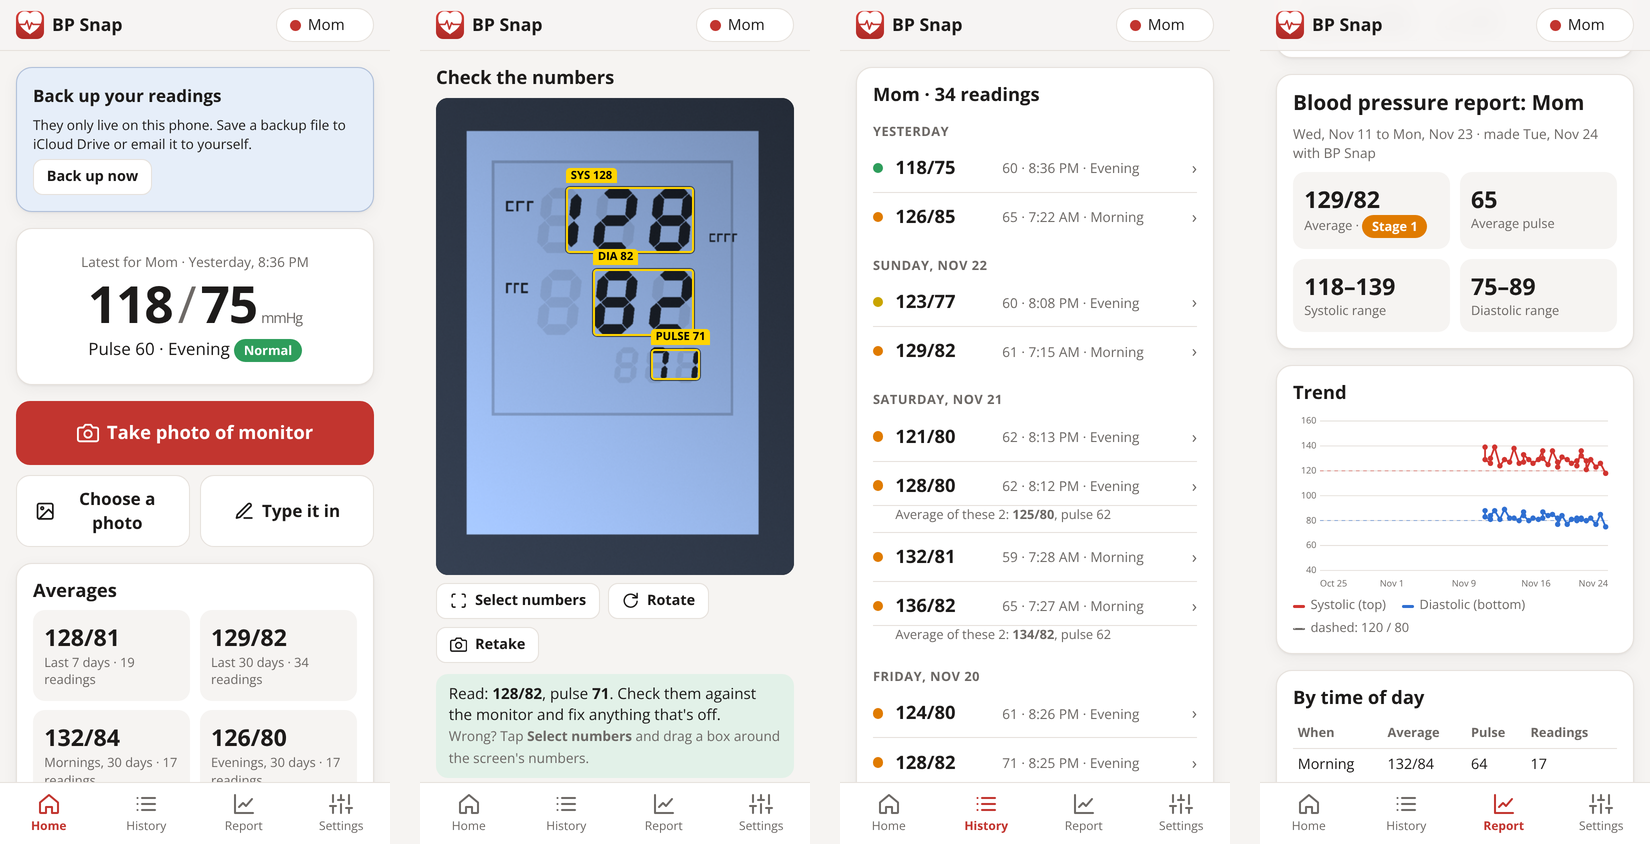
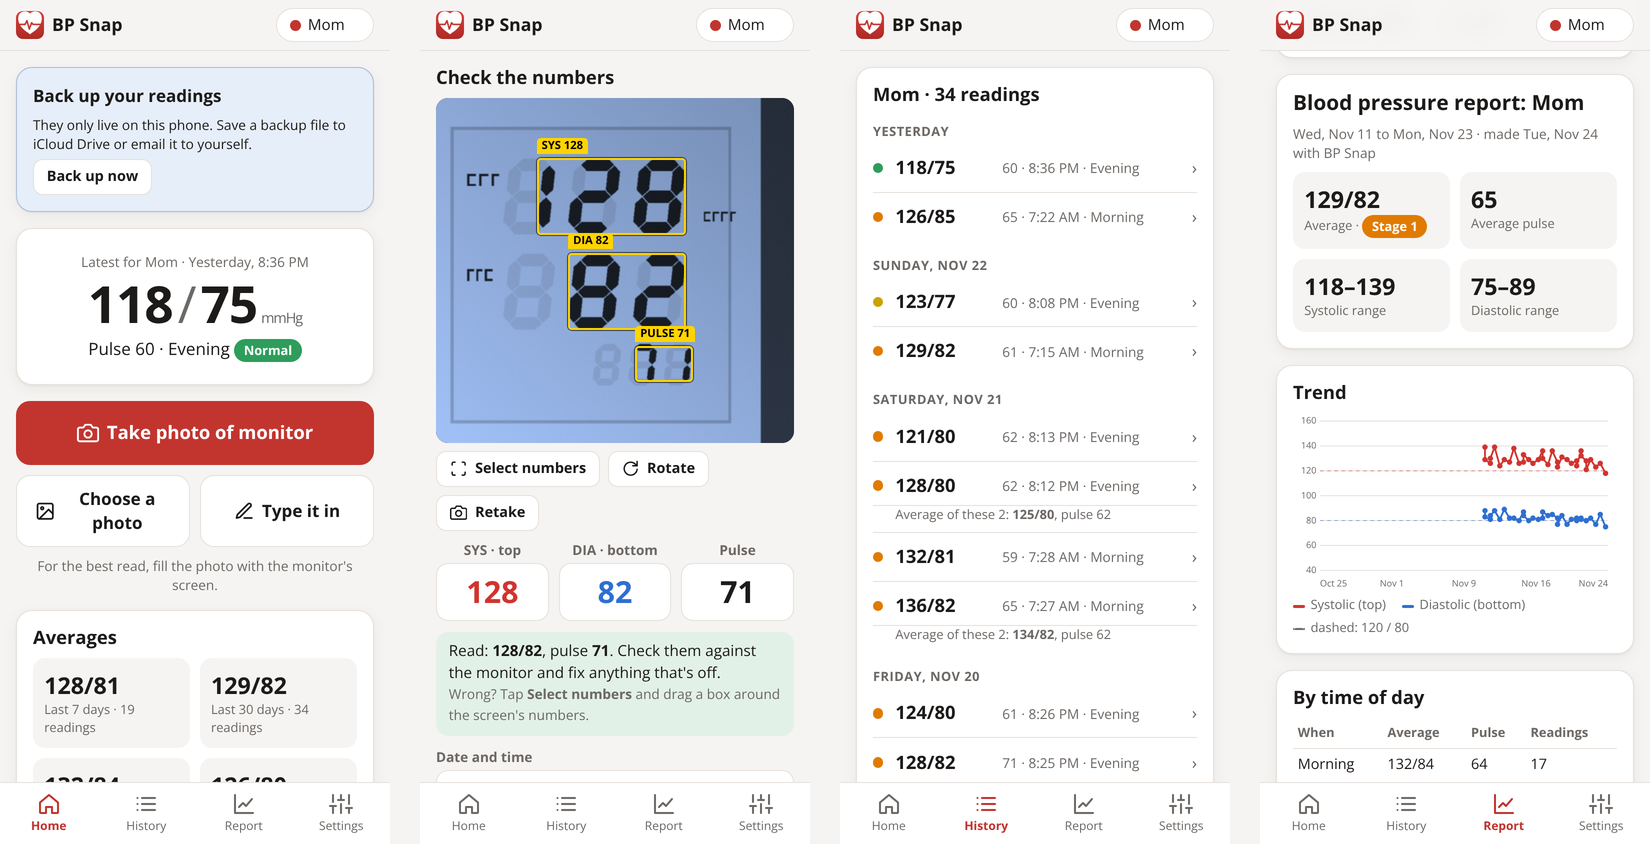
review: zoom the photo on the numbers read, numbers right under the photo, framing tip

diff --git a/js/app.js b/js/app.js
@@ -274,6 +274,7 @@ async function home() {
     <button class="btn" data-act="lib">${icon('image')} Choose a photo</button>
     <a class="btn" href="#/manual">${icon('pencil')} Type it in</a>
   </div>
+  <p class="muted small center" style="margin:-.4rem 0 1rem">For the best read, fill the photo with the monitor's screen.</p>
   ${rs.length ? `<section class="card"><h2>Averages</h2>
     <div class="stats">${statBox('Last 7 days', s7)}${statBox('Last 30 days', s30)}${statBox('Mornings, 30 days', tod.morning)}${statBox('Evenings, 30 days', tod.evening)}</div>
     ${s7.count ? `<p class="small" style="margin-top:.6rem">7-day average: ${chip(s7.category)} <span class="muted">${esc(s7.category.label)}</span></p>` : ''}
@@ -338,7 +339,7 @@ async function startCapture(file) {
     return;
   }
   if (state.draft?.url) URL.revokeObjectURL(state.draft.url);
-  state.draft = { ...loaded, src: loaded.img, rot: 0, takenAt, timeHint, ocr: null, token: 0, touched: false };
+  state.draft = { ...loaded, src: loaded.img, rot: 0, view: null, takenAt, timeHint, ocr: null, token: 0, touched: false };
   go('#/new');
 }
 for (const id of ['cam', 'lib']) {
@@ -358,6 +359,7 @@ function formHTML(v, opts = {}) {
       <div class="dia"><label class="f" for="f-dia">DIA · bottom</label><input id="f-dia" name="dia" inputmode="numeric" pattern="[0-9]*" maxlength="3" autocomplete="off" value="${v.dia ?? ''}"></div>
       <div><label class="f" for="f-pulse">Pulse</label><input id="f-pulse" name="pulse" inputmode="numeric" pattern="[0-9]*" maxlength="3" autocomplete="off" value="${v.pulse ?? ''}"></div>
     </div>
+    ${opts.afterNums ?? ''}
     <label class="f" for="f-time">Date and time</label>
     <input id="f-time" name="time" type="datetime-local" value="${toLocalInput(v.takenAt ?? Date.now())}" data-orig="${v.takenAt ?? ''}">
     ${opts.timeHint ? `<p class="muted small">${esc(opts.timeHint)}</p>` : ''}
@@ -418,13 +420,12 @@ async function reviewPhoto() {
       <button type="button" class="btn small" id="rot">${icon('rotate')} Rotate</button>
       <button type="button" class="btn small" id="retake">${icon('camera')} Retake</button>
     </div>
-    <p id="ocr-status" class="status busy">Reading the numbers…</p>
-    ${formHTML({ ...(d.values || {}), takenAt: d.takenAt }, { timeHint: d.timeHint })}
+    ${formHTML({ ...(d.values || {}), takenAt: d.takenAt }, { timeHint: d.timeHint, afterNums: '<p id="ocr-status" class="status busy">Reading the numbers…</p>' })}
   </section>`;
   const form = $('#rf');
   $$('#f-sys, #f-dia, #f-pulse', form).forEach((i) => i.addEventListener('input', () => { d.touched = true; }));
   $('#retake').addEventListener('click', () => $('#cam').click());
-  $('#rot').addEventListener('click', () => { d.rot = (d.rot + 1) % 4; d.src = d.rot ? IMG.rotate(d.img, d.rot) : d.img; drawPhoto(); runReader(); });
+  $('#rot').addEventListener('click', () => { d.rot = (d.rot + 1) % 4; d.src = d.rot ? IMG.rotate(d.img, d.rot) : d.img; d.view = null; drawPhoto(); runReader(); });
   setupSelect();
   form.addEventListener('submit', async (e) => {
     e.preventDefault();
@@ -457,20 +458,36 @@ async function reviewPhoto() {
 
 const srcSize = (src) => ({ w: src.naturalWidth || src.width, h: src.naturalHeight || src.height });
 
+// The part of the photo on screen: the whole photo, or zoomed on the display after a read.
+const viewRect = (d) => d.view || { x: 0, y: 0, ...srcSize(d.src) };
+
 function drawPhoto() {
   const d = state.draft;
   const cv = $('#photo');
   if (!cv) return;
-  const shown = IMG.toCanvas(d.src, 1200);
+  const shown = IMG.toCanvas(d.src, 1200, d.view);
   cv.width = shown.width; cv.height = shown.height;
   cv.getContext('2d').drawImage(shown, 0, 0);
   $('#ov').innerHTML = '';
 }
 
 function drawBoxes(boxes, extra = '') {
+  const v = viewRect(state.draft);
+  $('#ov').innerHTML = boxes.map((b) => `<div class="box" style="left:${((b.x - v.x) / v.w) * 100}%;top:${((b.y - v.y) / v.h) * 100}%;width:${(b.w / v.w) * 100}%;height:${(b.h / v.h) * 100}%"><span>${esc(b.label)} ${b.value}</span></div>`).join('') + extra;
+}
+
+// Zoom the preview on the numbers that were read, so they are easy to check on a phone.
+function zoomTo(boxes) {
   const d = state.draft;
   const { w, h } = srcSize(d.src);
-  $('#ov').innerHTML = boxes.map((b) => `<div class="box" style="left:${(b.x / w) * 100}%;top:${(b.y / h) * 100}%;width:${(b.w / w) * 100}%;height:${(b.h / h) * 100}%"><span>${esc(b.label)} ${b.value}</span></div>`).join('') + extra;
+  const x0 = Math.min(...boxes.map((b) => b.x)), y0 = Math.min(...boxes.map((b) => b.y));
+  const x1 = Math.max(...boxes.map((b) => b.x + b.w)), y1 = Math.max(...boxes.map((b) => b.y + b.h));
+  const m = 0.45 * Math.max(x1 - x0, y1 - y0);
+  const r = { x: Math.max(0, x0 - m), y: Math.max(0, y0 - m * 0.6) };
+  r.w = Math.min(w, x1 + m) - r.x;
+  r.h = Math.min(h, y1 + m * 0.6) - r.y;
+  d.view = r.w * r.h < 0.7 * w * h ? r : null;
+  drawPhoto();
 }
 
 function setStatus(cls, html) {
@@ -514,6 +531,7 @@ async function runReader(crop = null) {
   d.ocr = res;
   const form = $('#rf');
   if (res.ok) {
+    zoomTo(res.boxes);
     drawBoxes(res.boxes);
     if (!d.touched) {
       form.sys.value = res.sys;
@@ -524,6 +542,7 @@ async function runReader(crop = null) {
     setStatus(sure ? 'ok' : 'warn', `${sure ? 'Read' : 'Best guess'}: <b>${res.sys}/${res.dia}</b>${res.pulse != null ? `, pulse <b>${res.pulse}</b>` : ', no pulse found'}. Check them against the monitor and fix anything that's off.
       <br><span class="small muted">Wrong? Tap <b>Select numbers</b> and drag a box around the screen's numbers.</span>`);
   } else {
+    if (d.view) { d.view = null; drawPhoto(); }
     drawBoxes([]);
     setStatus('warn', `Couldn't read the numbers in this photo. Tap <b>Select numbers</b> and drag a box around them, or type them in below.`);
   }
@@ -536,7 +555,11 @@ function setupSelect() {
     on = v;
     btn.classList.toggle('primary', on);
     pw.style.touchAction = on ? 'none' : '';
-    if (on) setStatus('', 'Drag a box around the numbers on the screen (SYS, DIA and pulse).');
+    if (on) {
+      // Select on the whole photo.
+      if (state.draft.view) { state.draft.view = null; drawPhoto(); }
+      setStatus('', 'Drag a box around the numbers on the screen (SYS, DIA and pulse).');
+    }
   };
   btn.addEventListener('click', () => setOn(!on));
   const pt = (e) => {

diff --git a/css/app.css b/css/app.css
@@ -146,8 +146,8 @@ main { max-width: 640px; margin: 0 auto; padding: 1rem; outline: none; }
 .session { font-size: .8rem; color: var(--muted); padding: 0 0 .5rem 1.4rem; margin-top: -.3rem; }
 .day { font-size: .8rem; font-weight: 700; text-transform: uppercase; letter-spacing: .04em; color: var(--muted); margin: 1rem 0 .2rem; }
 
-.review .photo-wrap { position: relative; border-radius: 12px; overflow: hidden; background: #000; touch-action: none; user-select: none; -webkit-user-select: none; }
-.review canvas.photo { display: block; width: 100%; height: auto; }
+.review .photo-wrap { position: relative; border-radius: 12px; overflow: hidden; background: #000; user-select: none; -webkit-user-select: none; width: fit-content; max-width: 100%; margin: 0 auto; }
+.review canvas.photo { display: block; max-width: 100%; max-height: 52vh; width: auto; height: auto; }
 .review .overlay { position: absolute; inset: 0; }
 .box { position: absolute; border: 2px solid #ffd400; border-radius: 4px; box-shadow: 0 0 0 1px rgba(0, 0, 0, .6); }
 .box span { position: absolute; left: -2px; top: -1.35rem; background: #ffd400; color: #000; font-size: .7rem; font-weight: 700; padding: 0 .3rem; border-radius: 4px 4px 0 0; white-space: nowrap; }
